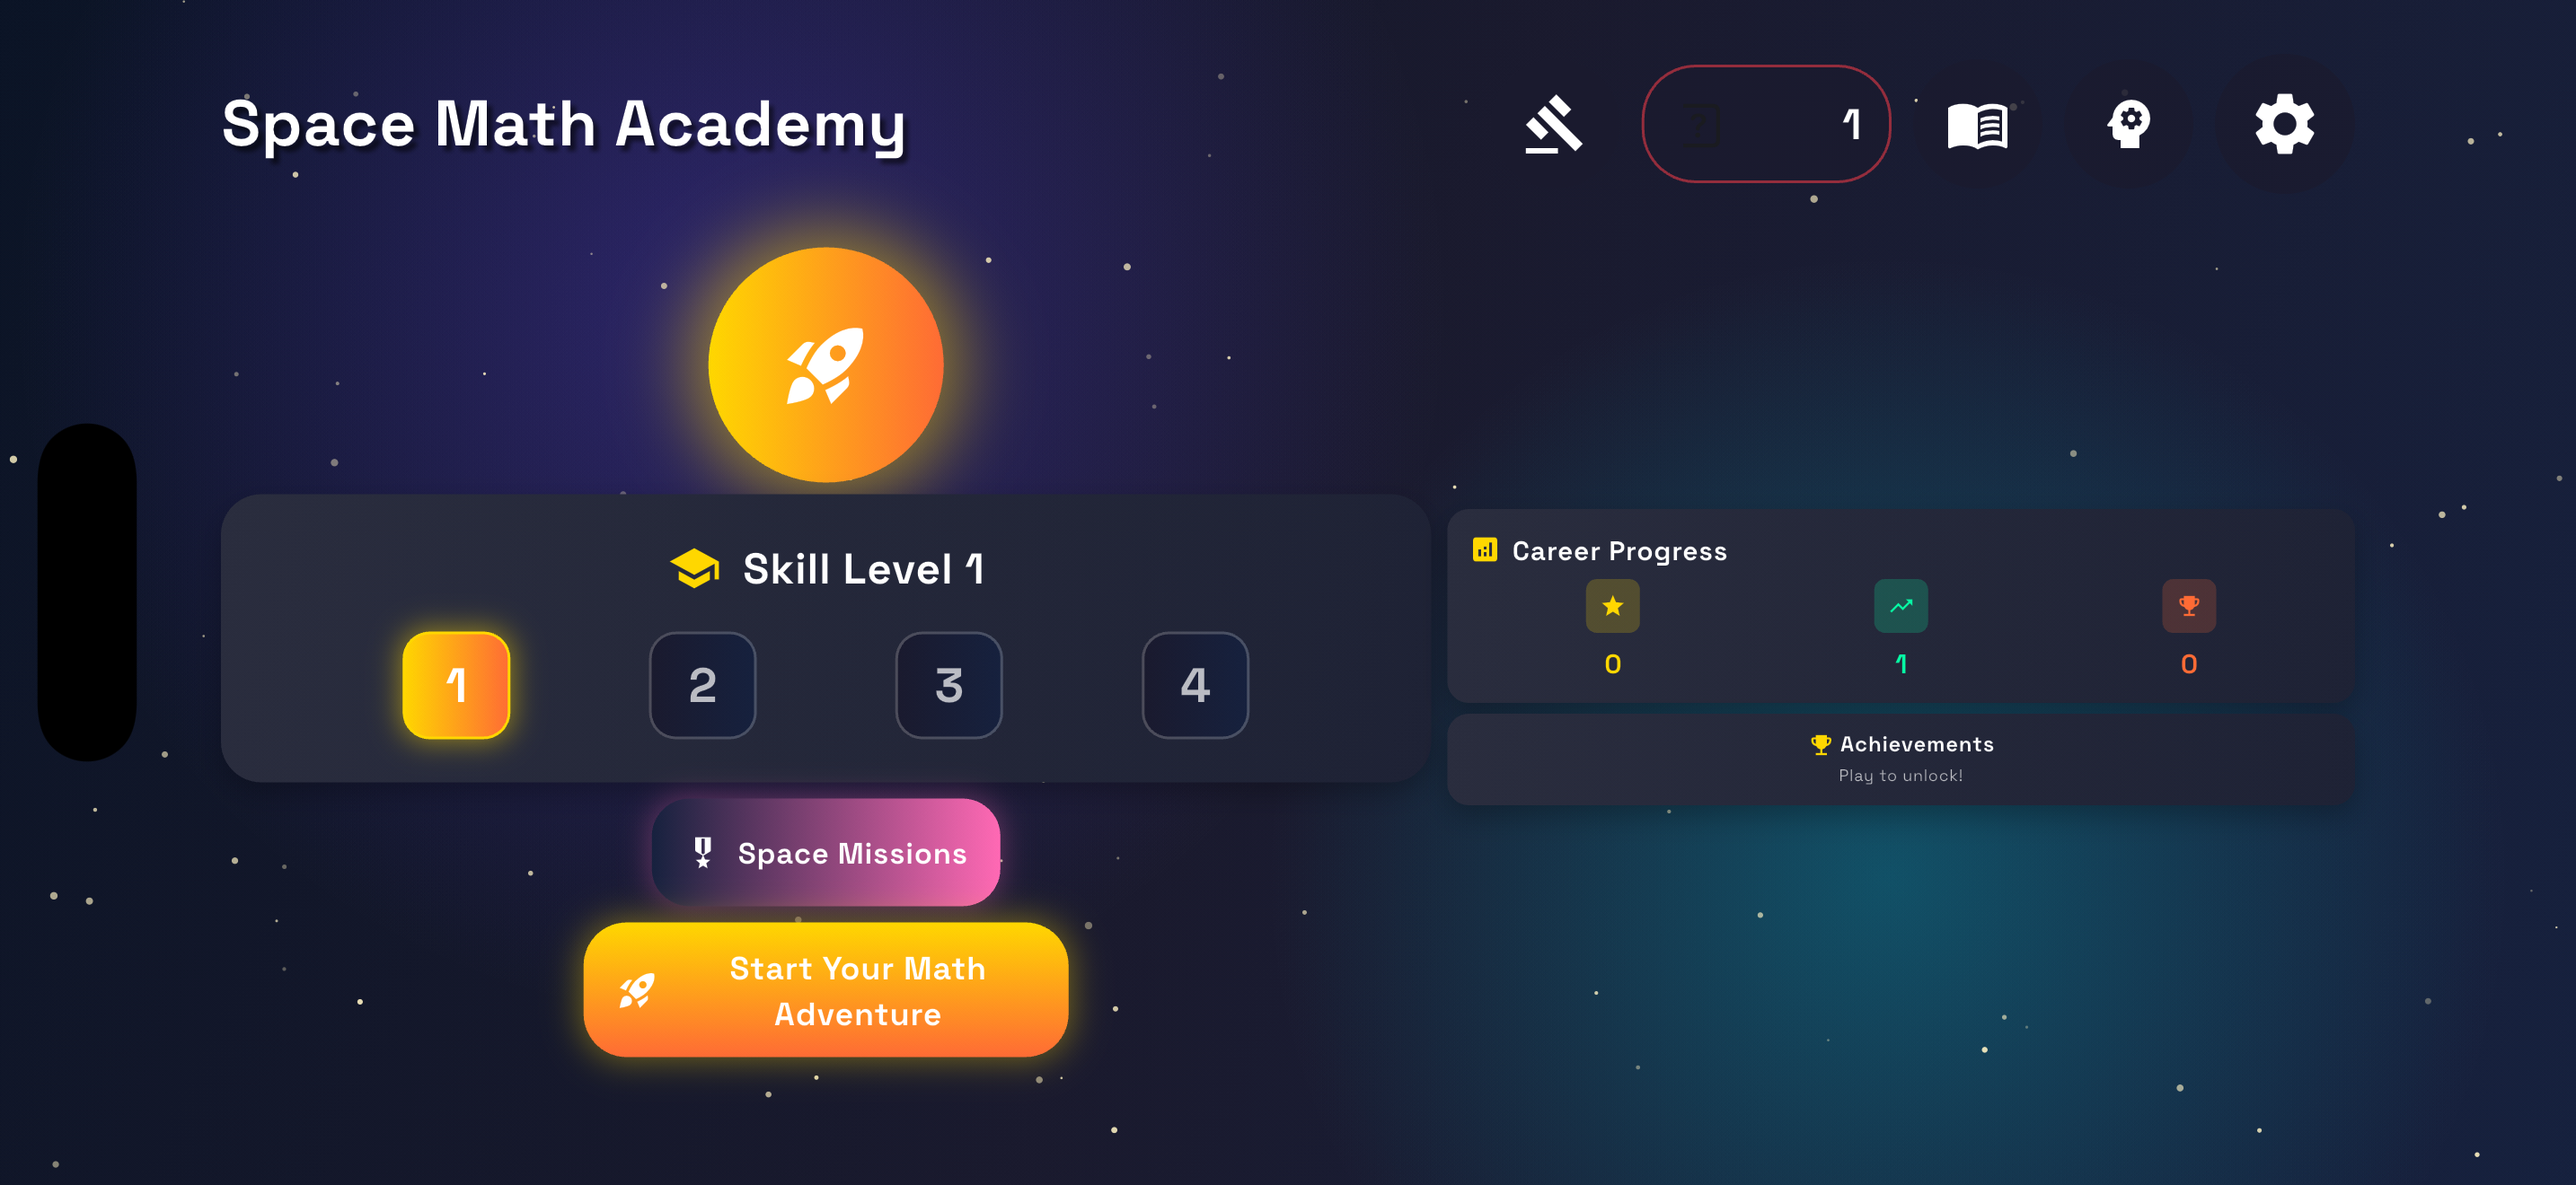
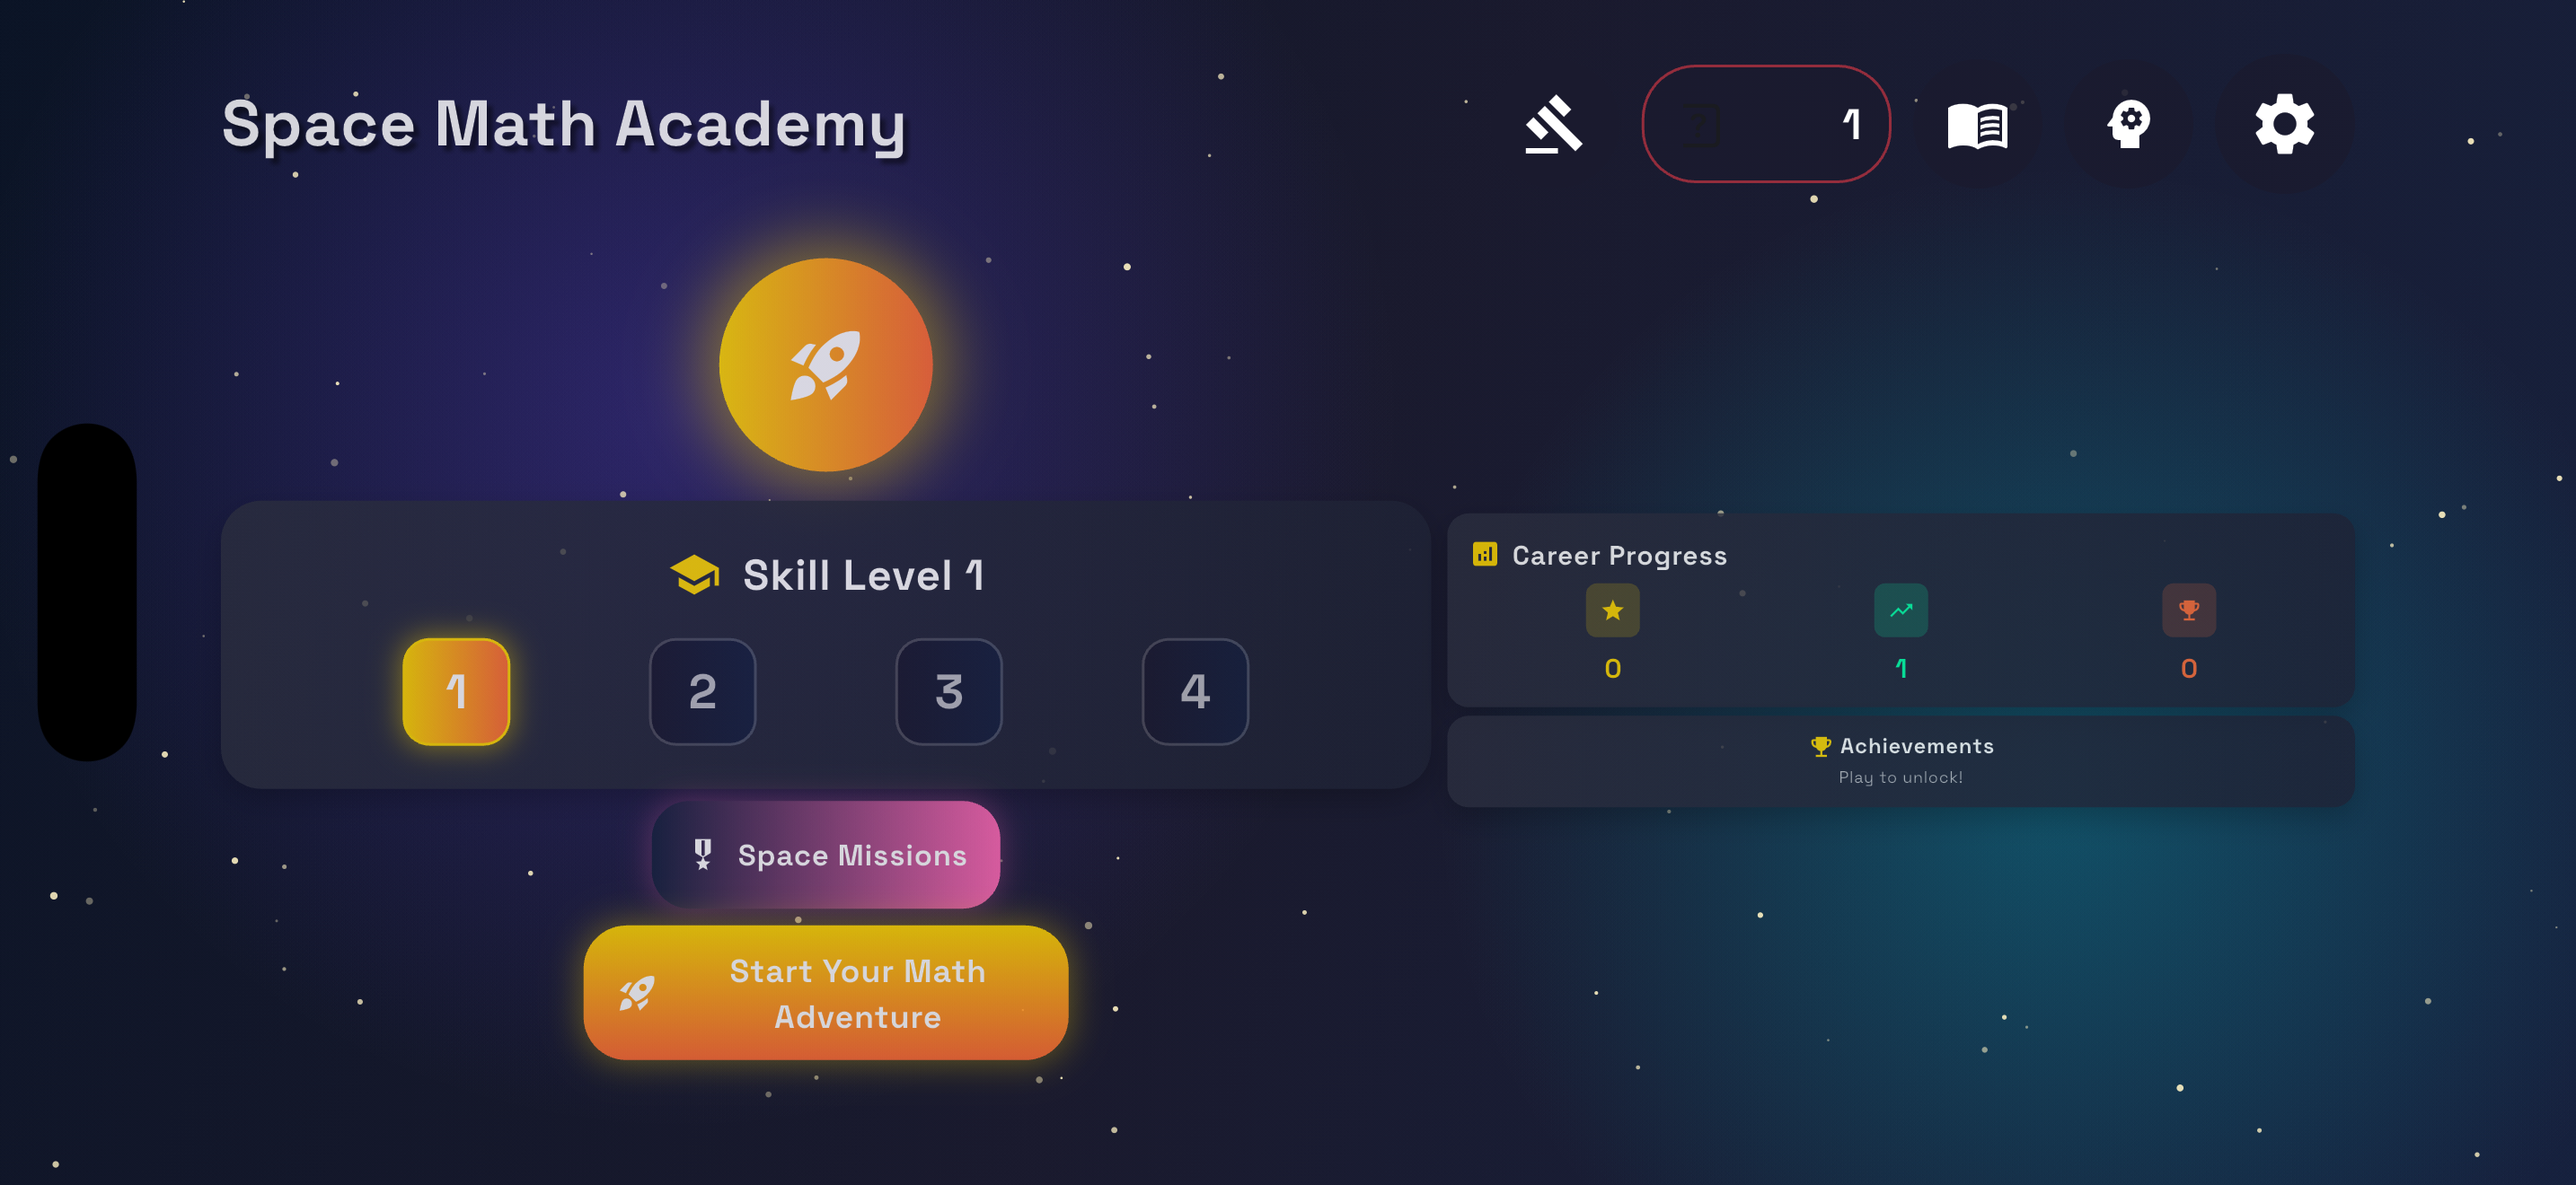
test(screenshots): integration_test harness + real gameplay screenshots
- integration_test/screenshots_test.dart: drives the app (home -> Mission
  Control menu -> a game, dismissing the first-run tutorial) and holds each
  screen, printing SHOT_MARKER lines. Uses fixed pump() steps because the
  animated background never settles.
- tool/capture_screenshots.sh: runs the harness on a simulator, grabs native
  pixels at each marker via `simctl io screenshot`, and rotates to landscape.
  Reusable for future locales/devices; no physical device, no manual taps.
- add integration_test dev dependency.
- iPhone 6.9" screenshots refreshed to a 3-shot story (home, game grid,
  Wormhole Activator gameplay), all real renders at 2868x1320.

diff --git a/integration_test/screenshots_test.dart b/integration_test/screenshots_test.dart
@@ -1,0 +1,83 @@
+// Screenshot-driver integration test.
+//
+// Navigates the real app (home -> game menu -> a game) and HOLDS each screen
+// for a few seconds, printing a `SHOT_MARKER <name>` line just before each
+// hold. A host script (tool/capture_screenshots.sh) watches for those markers
+// and grabs native-resolution pixels with `xcrun simctl io screenshot` during
+// the hold window.
+//
+// We deliberately drive with fixed `pump()` steps instead of `pumpAndSettle()`
+// because the animated SpaceBackground runs a repeating animation that never
+// settles.
+//
+// Run (on a booted simulator):
+//   flutter test integration_test/screenshots_test.dart -d <sim-udid>
+
+import 'package:flutter/foundation.dart';
+import 'package:flutter/material.dart';
+import 'package:flutter_test/flutter_test.dart';
+import 'package:integration_test/integration_test.dart';
+
+import 'package:space_math_academy/main.dart' as app;
+import 'package:space_math_academy/features/games/screens/game_menu_screen.dart';
+
+Future<void> _hold(WidgetTester tester, {int ms = 7000}) async {
+  final steps = ms ~/ 150;
+  for (var i = 0; i < steps; i++) {
+    await tester.pump(const Duration(milliseconds: 150));
+  }
+}
+
+Finder _startButton() {
+  for (final label in const [
+    'Start Your Math Adventure',
+    'Starte dein Mathe-Abenteuer',
+  ]) {
+    final f = find.text(label);
+    if (f.evaluate().isNotEmpty) return f;
+  }
+  return find.byType(GameCard); // fallback: already on the menu
+}
+
+void main() {
+  IntegrationTestWidgetsFlutterBinding.ensureInitialized();
+
+  testWidgets('drive the app and hold screens for screenshots',
+      (tester) async {
+    app.main();
+    await _hold(tester, ms: 4000); // splash -> home
+
+    // 1. Home screen.
+    debugPrint('SHOT_MARKER home');
+    await _hold(tester);
+
+    // 2. Game menu.
+    final start = _startButton();
+    if (start.evaluate().isNotEmpty && start != find.byType(GameCard)) {
+      await tester.tap(start.first, warnIfMissed: false);
+      await _hold(tester, ms: 3000);
+    }
+    debugPrint('SHOT_MARKER menu');
+    await _hold(tester);
+
+    // 3. A game (first card).
+    final cards = find.byType(GameCard);
+    if (cards.evaluate().isNotEmpty) {
+      await tester.tap(cards.first, warnIfMissed: false);
+      await _hold(tester, ms: 3500);
+
+      // Dismiss the first-run tutorial overlay so the puzzle is unobstructed.
+      for (final label in const ['Skip', 'Überspringen', 'Got it!', 'Verstanden']) {
+        final f = find.text(label);
+        if (f.evaluate().isNotEmpty) {
+          await tester.tap(f.first, warnIfMissed: false);
+          await _hold(tester, ms: 1500);
+          break;
+        }
+      }
+
+      debugPrint('SHOT_MARKER game1');
+      await _hold(tester, ms: 8000);
+    }
+  }, timeout: const Timeout(Duration(minutes: 5)));
+}
